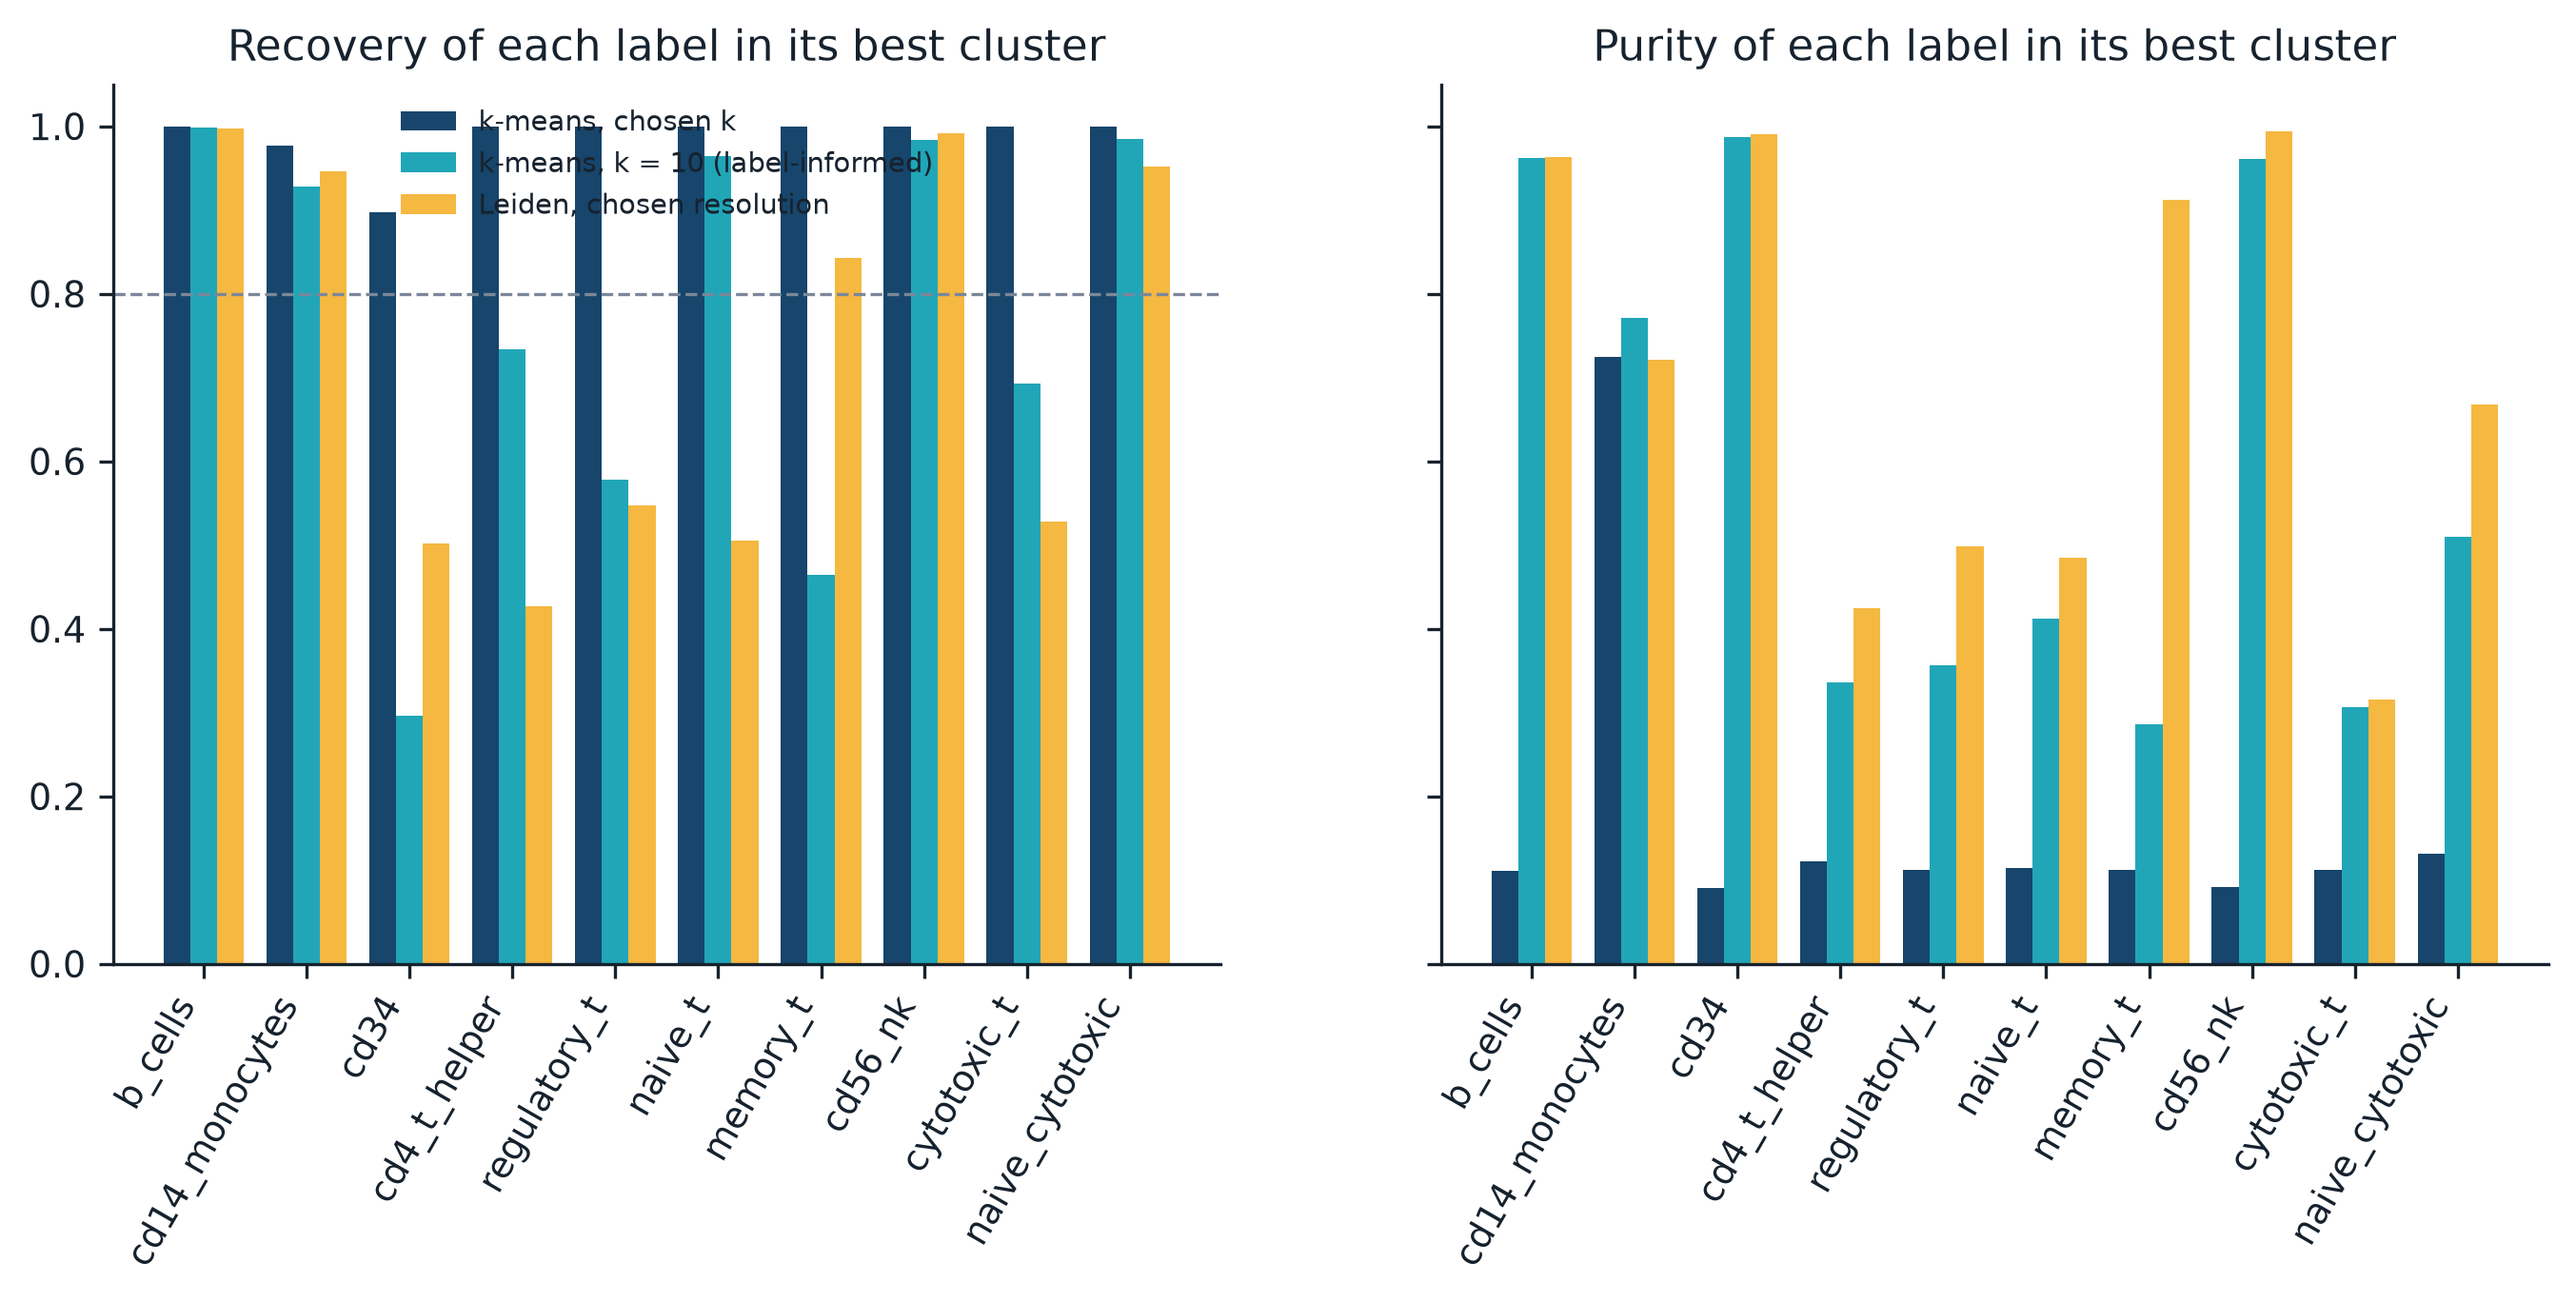
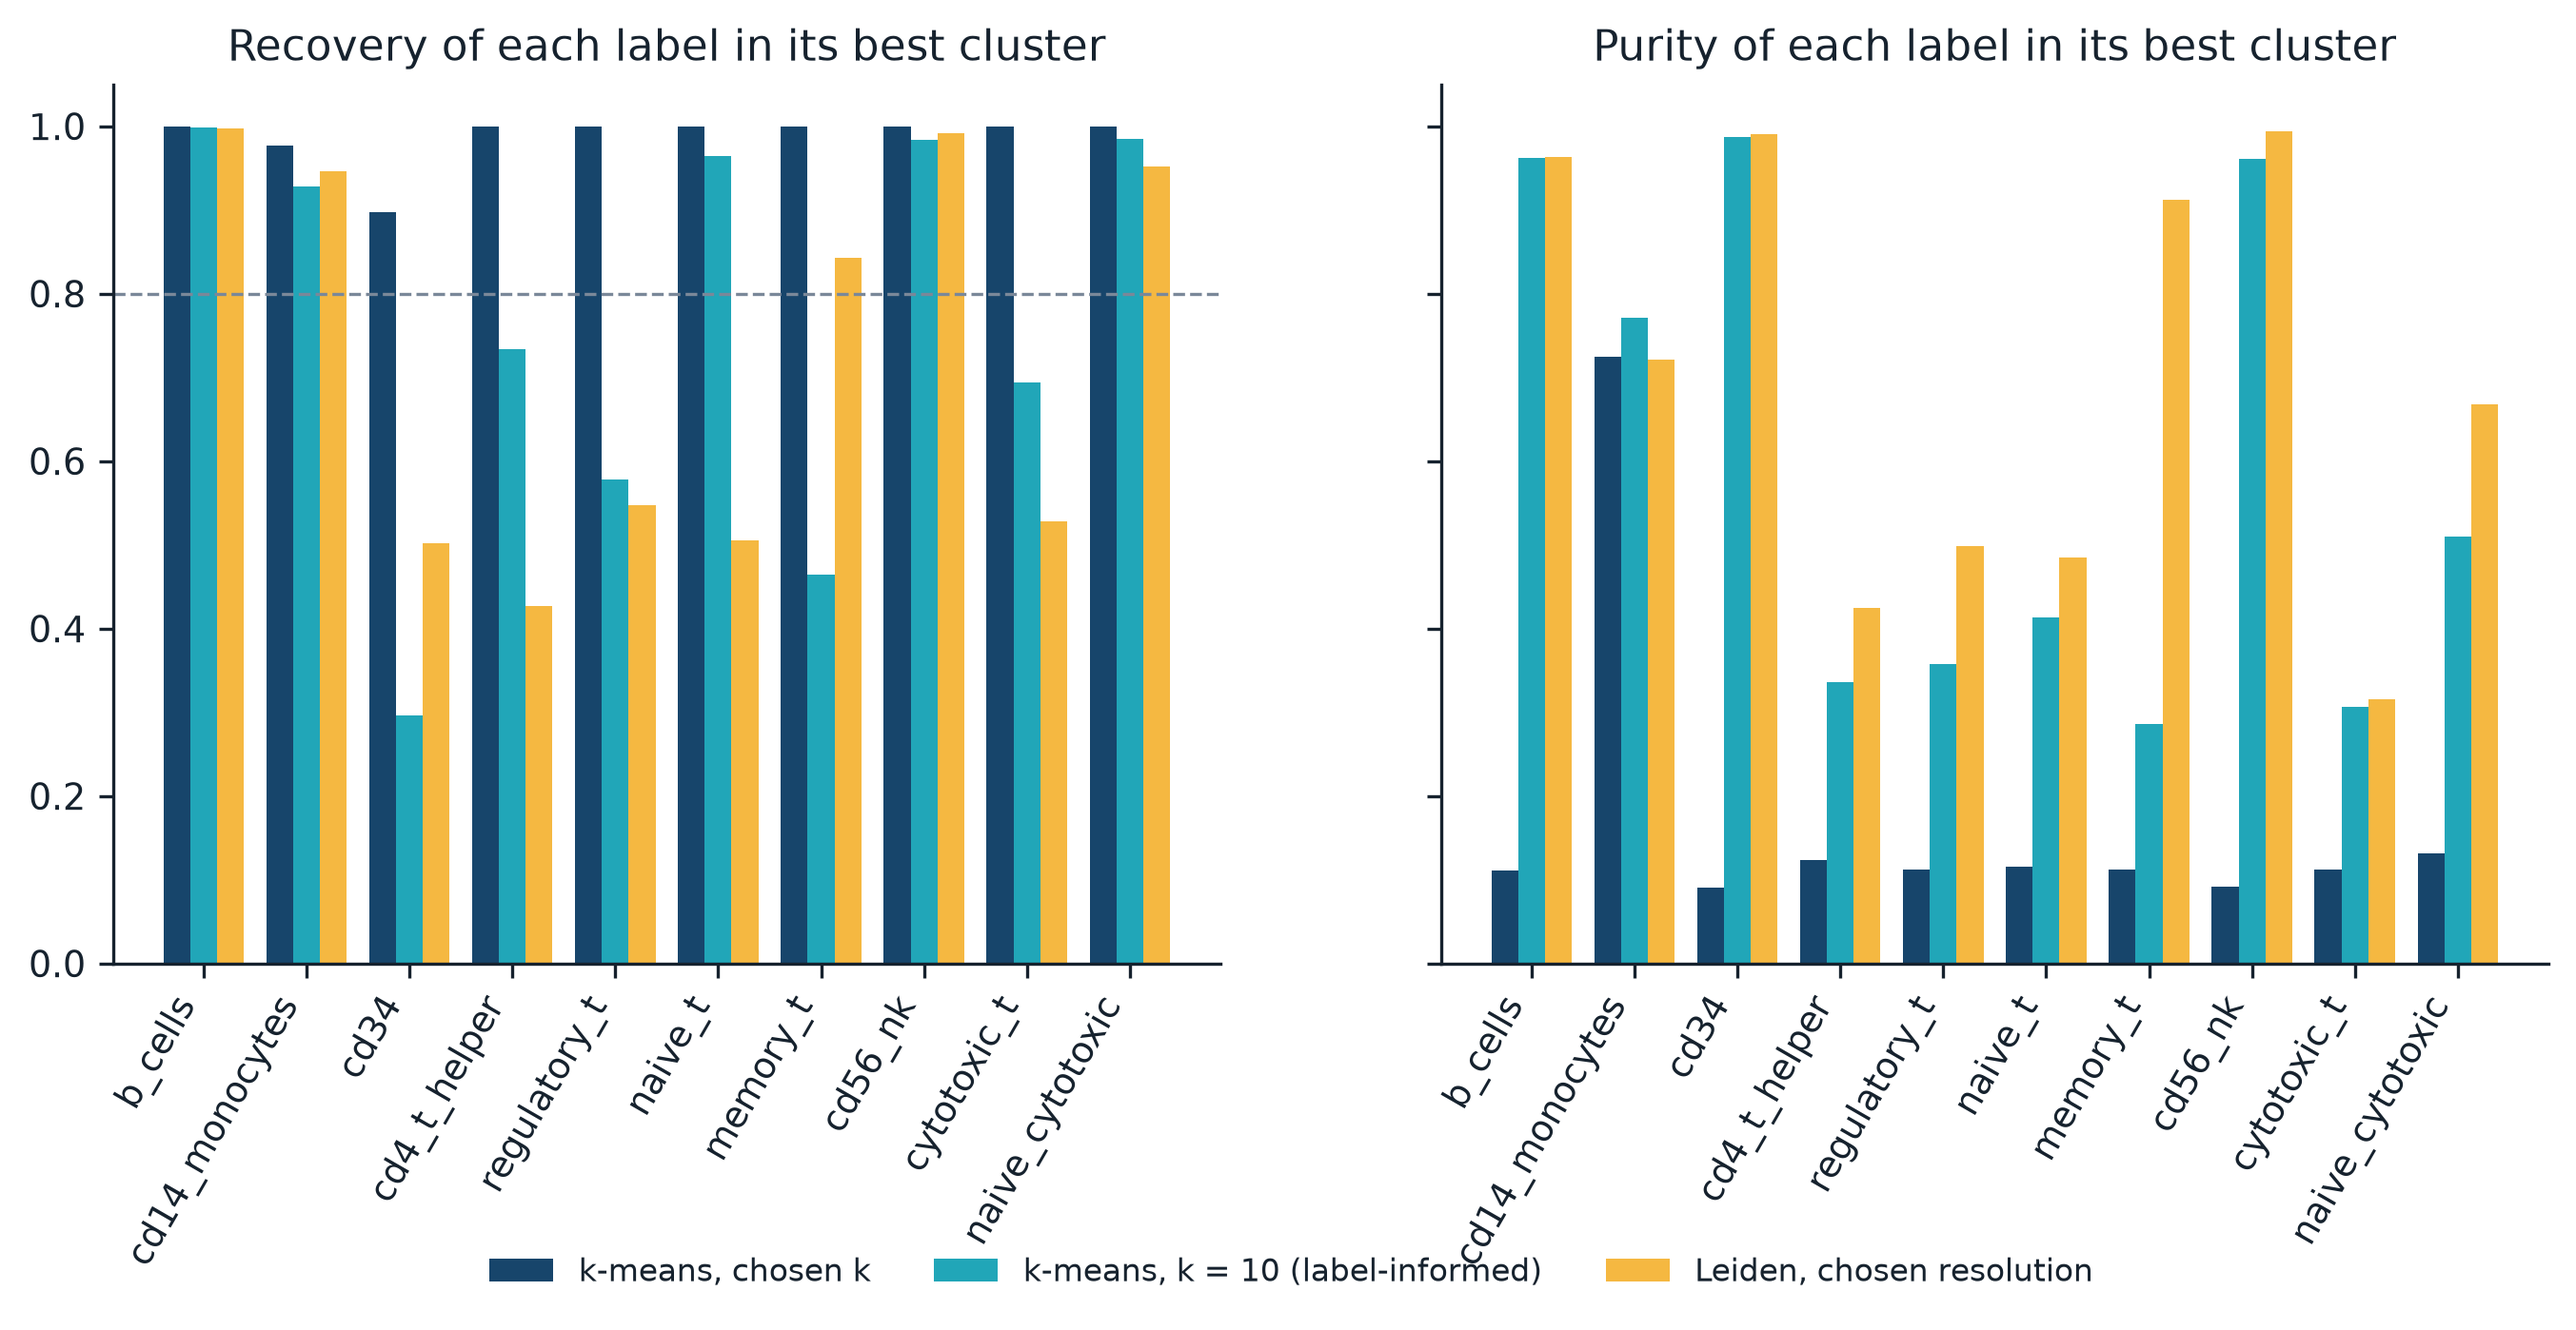
update_figures

diff --git a/scripts/09_figures.py b/scripts/09_figures.py
@@ -118,7 +118,8 @@ def main():
         ax.set_xticklabels(populations, rotation=60, ha="right")
         ax.set_title(f"{stat.capitalize()} of each label in its best cluster")
     axes[0].axhline(0.8, color=NULL_COLOUR, linestyle="--", linewidth=0.8)
-    axes[0].legend(frameon=False, fontsize=7)
+    handles, labels = axes[0].get_legend_handles_labels()
+    fig.legend(handles, labels, frameon=False, fontsize=8, loc="lower center", ncol=3, bbox_to_anchor=(0.5, -0.2))
     save(fig, "09_recovery_purity.png")
 
     # Technical metrics by population.
@@ -140,8 +141,10 @@ def main():
     fig, ax = plt.subplots(figsize=(6.5, 3.6))
     x = np.arange(len(arms))
     nested, distinct = cfg["diagnostics"]["nested_pair"], cfg["diagnostics"]["distinct_pair"]
-    ax.bar(x - 0.18, [sub[a]["nested"] for a in arms], width=0.36, color=PALETTE[5], label=f"nested: {nested[0]} vs {nested[1]}")
-    ax.bar(x + 0.18, [sub[a]["distinct"] for a in arms], width=0.36, color=PALETTE[0], label=f"distinct: {distinct[0]} vs {distinct[1]}")
+    bars_nested = ax.bar(x - 0.18, [sub[a]["nested"] for a in arms], width=0.36, color=PALETTE[5], label=f"nested: {nested[0]} vs {nested[1]}")
+    bars_distinct = ax.bar(x + 0.18, [sub[a]["distinct"] for a in arms], width=0.36, color=PALETTE[0], label=f"distinct: {distinct[0]} vs {distinct[1]}")
+    for bars in (bars_nested, bars_distinct):
+        ax.bar_label(bars, labels=[f"{b.get_height():.2f}".replace("-0.00", "0.00") for b in bars], fontsize=7, padding=2)
     ax.set_xticks(x)
     ax.set_xticklabels([SHORT[a] for a in arms], fontsize=7)
     ax.set_ylabel("ARI within the pair")
